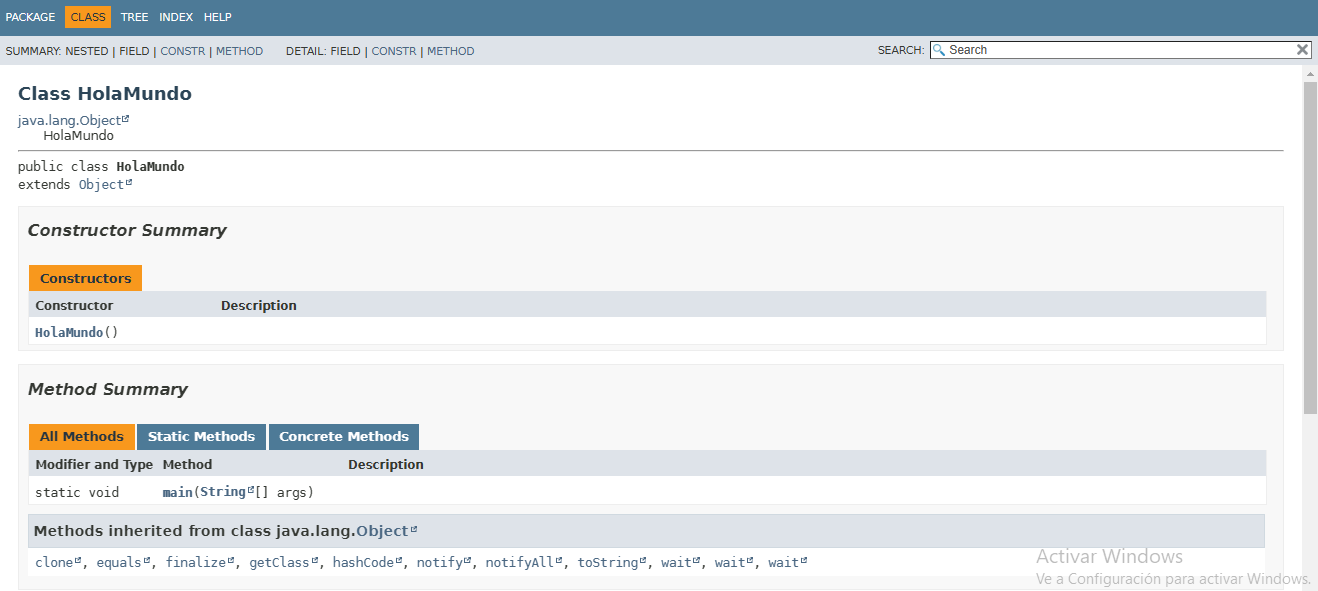
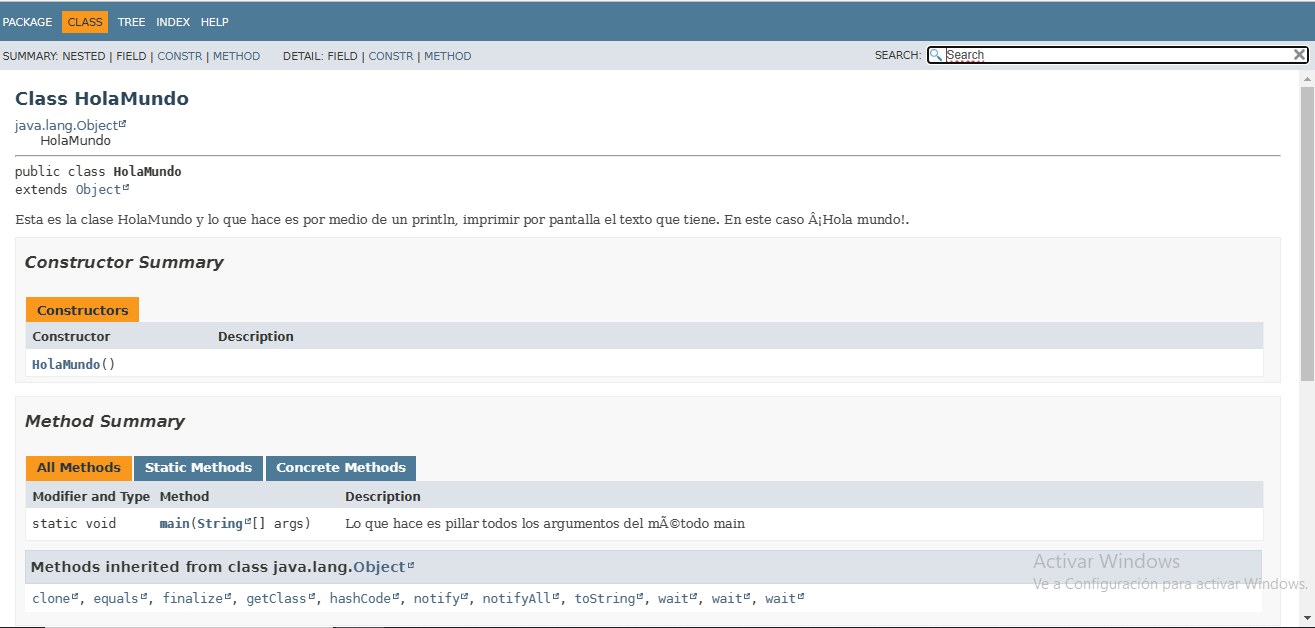
Add P3-JavaDoc

Changed region(s): [[0.0, 0.0, 1.0, 0.6091], [0.0, 0.6396, 0.9977, 1.0], [0.9665, 0.6091, 1.0, 0.7005]]

diff --git a/Programacion/P3-JavaDoc/HolaMundo.html b/Programacion/P3-JavaDoc/HolaMundo.html
@@ -1,7 +1,7 @@
 <!DOCTYPE HTML>
 <html lang="es">
 <head>
-<!-- Generated by javadoc (17) on Thu Mar 09 20:48:14 CET 2023 -->
+<!-- Generated by javadoc (17) on Thu Mar 09 21:09:23 CET 2023 -->
 <title>HolaMundo</title>
 <meta name="viewport" content="width=device-width, initial-scale=1">
 <meta http-equiv="Content-Type" content="text/html; charset=utf-8">
@@ -76,6 +76,7 @@ loadScripts(document, 'script');</script>
 <hr>
 <div class="type-signature"><span class="modifiers">public class </span><span class="element-name type-name-label">HolaMundo</span>
 <span class="extends-implements">extends <a href="https://docs.oracle.com/en/java/javase/17/docs/api/java.base/java/lang/Object.html" title="class or interface in java.lang" class="external-link">Object</a></span></div>
+<div class="block">Esta es la clase HolaMundo y lo que hace es por medio de un println, imprimir por pantalla el texto que tiene. En este caso Â¡Hola mundo!.</div>
 </section>
 <section class="summary">
 <ul class="summary-list">
@@ -105,7 +106,9 @@ loadScripts(document, 'script');</script>
 <div class="table-header col-last">Description</div>
 <div class="col-first even-row-color method-summary-table method-summary-table-tab1 method-summary-table-tab4"><code>static void</code></div>
 <div class="col-second even-row-color method-summary-table method-summary-table-tab1 method-summary-table-tab4"><code><a href="#main(java.lang.String%5B%5D)" class="member-name-link">main</a><wbr>(<a href="https://docs.oracle.com/en/java/javase/17/docs/api/java.base/java/lang/String.html" title="class or interface in java.lang" class="external-link">String</a>[]&nbsp;args)</code></div>
-<div class="col-last even-row-color method-summary-table method-summary-table-tab1 method-summary-table-tab4">&nbsp;</div>
+<div class="col-last even-row-color method-summary-table method-summary-table-tab1 method-summary-table-tab4">
+<div class="block">Lo que hace es pillar todos los argumentos del mÃ©todo main</div>
+</div>
 </div>
 </div>
 </div>
@@ -141,6 +144,11 @@ loadScripts(document, 'script');</script>
 <section class="detail" id="main(java.lang.String[])">
 <h3>main</h3>
 <div class="member-signature"><span class="modifiers">public static</span>&nbsp;<span class="return-type">void</span>&nbsp;<span class="element-name">main</span><wbr><span class="parameters">(<a href="https://docs.oracle.com/en/java/javase/17/docs/api/java.base/java/lang/String.html" title="class or interface in java.lang" class="external-link">String</a>[]&nbsp;args)</span></div>
+<div class="block">Lo que hace es pillar todos los argumentos del mÃ©todo main</div>
+<dl class="notes">
+<dt>Parameters:</dt>
+<dd><code>args</code> - </dd>
+</dl>
 </section>
 </li>
 </ul>

diff --git a/Programacion/P3-JavaDoc/index-files/index-2.html b/Programacion/P3-JavaDoc/index-files/index-2.html
@@ -1,7 +1,7 @@
 <!DOCTYPE HTML>
 <html lang="es">
 <head>
-<!-- Generated by javadoc (17) on Thu Mar 09 20:48:14 CET 2023 -->
+<!-- Generated by javadoc (17) on Thu Mar 09 21:09:23 CET 2023 -->
 <title>M-Index</title>
 <meta name="viewport" content="width=device-width, initial-scale=1">
 <meta http-equiv="Content-Type" content="text/html; charset=utf-8">
@@ -53,7 +53,9 @@ loadScripts(document, 'script');</script>
 <h2 class="title" id="I:M">M</h2>
 <dl class="index">
 <dt><a href="../HolaMundo.html#main(java.lang.String%5B%5D)" class="member-name-link">main(String[])</a> - Static method in class <a href="../HolaMundo.html" title="class in Unnamed Package">HolaMundo</a></dt>
-<dd>&nbsp;</dd>
+<dd>
+<div class="block">Lo que hace es pillar todos los argumentos del mÃ©todo main</div>
+</dd>
 </dl>
 <a href="index-1.html">H</a>&nbsp;<a href="index-2.html">M</a>&nbsp;<br><a href="../allclasses-index.html">All&nbsp;Classes&nbsp;and&nbsp;Interfaces</a><span class="vertical-separator">|</span><a href="../allpackages-index.html">All&nbsp;Packages</a></main>
 </div>

diff --git a/Programacion/P3-JavaDoc/allclasses-index.html b/Programacion/P3-JavaDoc/allclasses-index.html
@@ -1,7 +1,7 @@
 <!DOCTYPE HTML>
 <html lang="es">
 <head>
-<!-- Generated by javadoc (17) on Thu Mar 09 20:48:14 CET 2023 -->
+<!-- Generated by javadoc (17) on Thu Mar 09 21:09:23 CET 2023 -->
 <title>All Classes and Interfaces</title>
 <meta name="viewport" content="width=device-width, initial-scale=1">
 <meta http-equiv="Content-Type" content="text/html; charset=utf-8">
@@ -55,7 +55,9 @@ loadScripts(document, 'script');</script>
 <div class="table-header col-first">Class</div>
 <div class="table-header col-last">Description</div>
 <div class="col-first even-row-color all-classes-table all-classes-table-tab2"><a href="HolaMundo.html" title="class in Unnamed Package">HolaMundo</a></div>
-<div class="col-last even-row-color all-classes-table all-classes-table-tab2">&nbsp;</div>
+<div class="col-last even-row-color all-classes-table all-classes-table-tab2">
+<div class="block">Esta es la clase HolaMundo y lo que hace es por medio de un println, imprimir por pantalla el texto que tiene.</div>
+</div>
 </div>
 </div>
 </main>

diff --git a/Programacion/P3-JavaDoc/index-files/index-1.html b/Programacion/P3-JavaDoc/index-files/index-1.html
@@ -1,7 +1,7 @@
 <!DOCTYPE HTML>
 <html lang="es">
 <head>
-<!-- Generated by javadoc (17) on Thu Mar 09 20:48:14 CET 2023 -->
+<!-- Generated by javadoc (17) on Thu Mar 09 21:09:23 CET 2023 -->
 <title>H-Index</title>
 <meta name="viewport" content="width=device-width, initial-scale=1">
 <meta http-equiv="Content-Type" content="text/html; charset=utf-8">
@@ -53,7 +53,9 @@ loadScripts(document, 'script');</script>
 <h2 class="title" id="I:H">H</h2>
 <dl class="index">
 <dt><a href="../HolaMundo.html" class="type-name-link" title="class in Unnamed Package">HolaMundo</a> - Class in <a href="../package-summary.html">Unnamed Package</a></dt>
-<dd>&nbsp;</dd>
+<dd>
+<div class="block">Esta es la clase HolaMundo y lo que hace es por medio de un println, imprimir por pantalla el texto que tiene.</div>
+</dd>
 <dt><a href="../HolaMundo.html#%3Cinit%3E()" class="member-name-link">HolaMundo()</a> - Constructor for class <a href="../HolaMundo.html" title="class in Unnamed Package">HolaMundo</a></dt>
 <dd>&nbsp;</dd>
 </dl>

diff --git a/Programacion/P3-JavaDoc/package-summary.html b/Programacion/P3-JavaDoc/package-summary.html
@@ -1,7 +1,7 @@
 <!DOCTYPE HTML>
 <html lang="es">
 <head>
-<!-- Generated by javadoc (17) on Thu Mar 09 20:48:14 CET 2023 -->
+<!-- Generated by javadoc (17) on Thu Mar 09 21:09:23 CET 2023 -->
 <title>Unnamed Package</title>
 <meta name="viewport" content="width=device-width, initial-scale=1">
 <meta http-equiv="Content-Type" content="text/html; charset=utf-8">
@@ -67,7 +67,9 @@ loadScripts(document, 'script');</script>
 <div class="table-header col-first">Class</div>
 <div class="table-header col-last">Description</div>
 <div class="col-first even-row-color class-summary class-summary-tab2"><a href="HolaMundo.html" title="class in Unnamed Package">HolaMundo</a></div>
-<div class="col-last even-row-color class-summary class-summary-tab2">&nbsp;</div>
+<div class="col-last even-row-color class-summary class-summary-tab2">
+<div class="block">Esta es la clase HolaMundo y lo que hace es por medio de un println, imprimir por pantalla el texto que tiene.</div>
+</div>
 </div>
 </div>
 </li>

diff --git a/Programacion/P3-JavaDoc/index.html b/Programacion/P3-JavaDoc/index.html
@@ -1,7 +1,7 @@
 <!DOCTYPE HTML>
 <html lang="es">
 <head>
-<!-- Generated by javadoc (17) on Thu Mar 09 20:48:14 CET 2023 -->
+<!-- Generated by javadoc (17) on Thu Mar 09 21:09:23 CET 2023 -->
 <title>Generated Documentation (Untitled)</title>
 <meta name="viewport" content="width=device-width, initial-scale=1">
 <meta http-equiv="Content-Type" content="text/html; charset=utf-8">

diff --git a/Programacion/P3-JavaDoc/package-tree.html b/Programacion/P3-JavaDoc/package-tree.html
@@ -1,7 +1,7 @@
 <!DOCTYPE HTML>
 <html lang="es">
 <head>
-<!-- Generated by javadoc (17) on Thu Mar 09 20:48:14 CET 2023 -->
+<!-- Generated by javadoc (17) on Thu Mar 09 21:09:23 CET 2023 -->
 <title> Class Hierarchy</title>
 <meta name="viewport" content="width=device-width, initial-scale=1">
 <meta http-equiv="Content-Type" content="text/html; charset=utf-8">

diff --git a/Programacion/P3-JavaDoc/overview-tree.html b/Programacion/P3-JavaDoc/overview-tree.html
@@ -1,7 +1,7 @@
 <!DOCTYPE HTML>
 <html lang="es">
 <head>
-<!-- Generated by javadoc (17) on Thu Mar 09 20:48:14 CET 2023 -->
+<!-- Generated by javadoc (17) on Thu Mar 09 21:09:23 CET 2023 -->
 <title>Class Hierarchy</title>
 <meta name="viewport" content="width=device-width, initial-scale=1">
 <meta http-equiv="Content-Type" content="text/html; charset=utf-8">

diff --git a/Programacion/P3-JavaDoc/allpackages-index.html b/Programacion/P3-JavaDoc/allpackages-index.html
@@ -1,7 +1,7 @@
 <!DOCTYPE HTML>
 <html lang="es">
 <head>
-<!-- Generated by javadoc (17) on Thu Mar 09 20:48:14 CET 2023 -->
+<!-- Generated by javadoc (17) on Thu Mar 09 21:09:23 CET 2023 -->
 <title>All Packages</title>
 <meta name="viewport" content="width=device-width, initial-scale=1">
 <meta http-equiv="Content-Type" content="text/html; charset=utf-8">

diff --git a/Programacion/P3-JavaDoc/help-doc.html b/Programacion/P3-JavaDoc/help-doc.html
@@ -1,7 +1,7 @@
 <!DOCTYPE HTML>
 <html lang="es">
 <head>
-<!-- Generated by javadoc (17) on Thu Mar 09 20:48:14 CET 2023 -->
+<!-- Generated by javadoc (17) on Thu Mar 09 21:09:23 CET 2023 -->
 <title>API Help</title>
 <meta name="viewport" content="width=device-width, initial-scale=1">
 <meta http-equiv="Content-Type" content="text/html; charset=utf-8">

diff --git a/Programacion/P3-JavaDoc/Clase HolaMundo/HolaMundo.java b/Programacion/P3-JavaDoc/Clase HolaMundo/HolaMundo.java
@@ -1,8 +1,11 @@
-/**
+/** Esta es la clase HolaMundo y lo que hace es por medio de un println, imprimir por pantalla el texto que tiene. En este caso ¡Hola mundo!.
  * @author Juan Parejo García.
- * Esta es la clase HolaMundo y lo que hace es por medio de un println, imprimir por pantalla el texto que tiene. En este caso ¡Hola mundo!.
+ *
  */
 public class HolaMundo {
+    /** Lo que hace es pillar todos los argumentos del método main
+     * @param args
+     */
     public static void main(String[] args) {
         System.out.println("¡Hola mundo!");
     }
